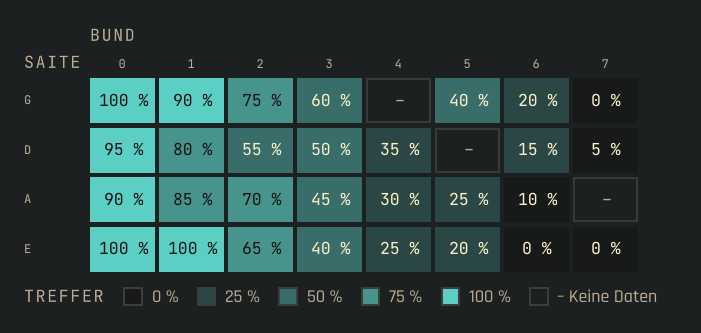
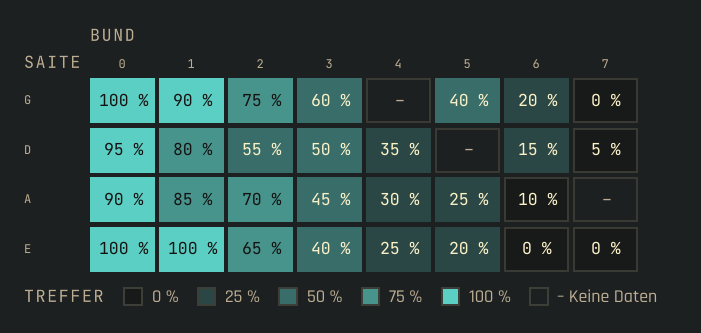
KanteHeatGrid: kein Fokus auf Lücken, Stufe 0 gerahmt (Review #106)
Wichtig aus dem Review: Mit showEmpty: false konnte der Fokus auf einer
unsichtbaren Lücke landen. Bestand nur aus Lücken, war das Raster eine
Tab-Station ohne Rahmen; setzte die App currentColumn auf eine Lücke, nahm
Tab genau diese. Jetzt ist ein Raster nur aus Lücken keine Tab-Station
(hasFocusable), focusCurrent und die Tasten am Scope rücken die aktuelle
Zelle vorher auf eine gezeichnete, moveTo geht nie auf eine Lücke. Tests
test_allGapsTakeNoTab und test_currentOnAGapFromOutside (scheiterten vorher).

Kleinigkeiten:
- Stufe 0 hat einen feinen Rahmen in der Regelfarbe und bleibt so von Grund
  und Lücke zu unterscheiden; eine Zelle mit label "" nennt Screenreadern
  ihren Wert (Wort der Stufe aus legendLabels, sonst die Zahl).
- Alle Werte gleich (automatische Skala): Stufe 0 und eine Legendenstufe
  statt Stufe 4 und fünfmal derselbe Wert.
- Legende: der Eintrag für Lücken ist ein leerer Schlüssel ohne Rahmen wie
  die Lücke; KanteLegend kennt dafür frame: false (sonst unverändert).
- CHANGELOG, #changes, README: „gebaut für“ Kontra und Mitori statt Präsens.
- Galerie: versehentlich mitgeänderte Breiten anderer Bauteile (380 → 320)
  zurückgenommen.

Tests test_levelZeroApartFromAGap, test_flatScale, test_discreteLevels
(Name mit Wert) scheiterten vorher. Screenshots neu.

diff --git a/qml/Kante/KanteHeatGrid.qml b/qml/Kante/KanteHeatGrid.qml
@@ -31,7 +31,8 @@ import "."
  *   formatter      function (value) -> string; default rounds to one decimal and adds `unit`
  *   showEmpty      a cell without data is drawn (ground, rule frame, `emptyText`) and takes
  *                  the focus (default true); false leaves a blank gap that the keys skip
- *                  ("no such combination")
+ *                  ("no such combination"); then a grid of gaps only is no Tab stop, and a
+ *                  current cell set onto a gap moves onto a drawn one before it takes the focus
  *   legend         the scale below the grid (default true), a KanteLegend: a key per level of
  *                  `legendLevels` (default 0..4) with the value it stands for
  *                  (`legendLabels[level]` overrides it), `legendTitle` before them and
@@ -53,8 +54,10 @@ import "."
  *   Irimi-…  [ ]     [4]       (blank: no data with showEmpty false)
  *
  * Level of a value: round((value - min) / (max - min) × 4), 0 to 4 as
- * KanteStyle.levelColor(level, 4). Level 0 is the sunken ground; a cell without data is the
- * page ground with a rule frame and `emptyText`. The number takes the ink that reads best on
+ * KanteStyle.levelColor(level, 4); all values alike on the scale are level 0. Level 0 is the
+ * sunken ground with a rule frame (apart from the page ground and a gap); a cell without data
+ * is the page ground with a rule frame and `emptyText`. A cell with label "" still says its value
+ * (the word of its level in `legendLabels`, else the number) to screen readers. The number takes the ink that reads best on
  * its fill (inkOf); where none reaches 4.5:1 (the middle of the scale), it sits on a small
  * plate of the ground. The focus ring is two lines: the focus colour outside the cell, against
  * the ground, and the ink of the fill inside its edge, so it shows on every level, the full
@@ -146,6 +149,21 @@ FocusScope {
         return false
     }
 
+    /** Some cell can take the focus (with showEmpty false, not every cell is a gap). */
+    readonly property bool hasFocusable: rowCount > 0 && columnCount > 0 && (showEmpty || hasData)
+    readonly property bool hasData: {
+        for (let r = 0; r < rowCount; r++) {
+            for (let c = 0; c < columnCount; c++) {
+                if (!isEmpty(r, c)) {
+                    return true
+                }
+            }
+        }
+        return false
+    }
+    /** All values alike on the scale: one level (0). */
+    readonly property bool flat: scaleMax - scaleMin <= 0
+
     /** Contrast the number keeps on its cell (WCAG AA for small text). */
     readonly property real minContrast: 4.5
     readonly property font labelFont: KanteStyle.monoFont(KanteStyle.labelFont().pointSize * 0.85, false)
@@ -204,12 +222,16 @@ FocusScope {
     /** The legend's entries as KanteLegend takes them ({color, text}). */
     readonly property var legendModel: {
         const out = []
-        for (let i = 0; i < legendLevels.length; i++) {
-            const k = Math.max(0, Math.min(4, legendLevels[i]))
+        // A flat scale (all values alike) has one level, 0.
+        const levels = flat ? [0] : legendLevels
+        for (let i = 0; i < levels.length; i++) {
+            const k = Math.max(0, Math.min(4, levels[i]))
             out.push({ color: KanteStyle.levelColor(k, 4), text: legendText(k) })
         }
+        // No data: a framed key like the framed cell, or a blank one like the gap.
         if (hasEmpty && noDataText !== "") {
-            out.push({ color: "transparent", text: showEmpty ? emptyText + " " + noDataText : noDataText })
+            out.push(showEmpty ? { color: "transparent", text: emptyText + " " + noDataText, frame: true }
+                               : { color: "transparent", text: noDataText, frame: false })
         }
         return out
     }
@@ -270,7 +292,7 @@ FocusScope {
         }
         const span = scaleMax - scaleMin
         if (span <= 0) {
-            return v >= scaleMax ? 4 : 0
+            return 0
         }
         return Math.max(0, Math.min(4, Math.round((v - scaleMin) / span * 4)))
     }
@@ -295,7 +317,13 @@ FocusScope {
         }
         // "G, 3: 80 %"; without a name the part is left out: "G: 80 %", "80 %".
         const where = [rowName(r), columnName(c)].filter(n => n !== "").join(", ")
-        const what = textOf(r, c)
+        // A blank cell (label "") still says its value: the word of its level, else the number.
+        let what = textOf(r, c)
+        const v = valueOf(r, c)
+        if (what === "" && !isNaN(v)) {
+            const word = legendLabels && legendLabels[levelOf(v)]
+            what = word ? String(word) : format(v)
+        }
         if (what === "") {
             return where
         }
@@ -350,8 +378,14 @@ FocusScope {
     }
     /** Moves the focus to a cell, clamped to the grid. */
     function moveTo(r, c) {
-        currentRow = Math.max(0, Math.min(rowCount - 1, r))
-        currentColumn = Math.max(0, Math.min(columnCount - 1, c))
+        const rr = Math.max(0, Math.min(rowCount - 1, r))
+        const cc = Math.max(0, Math.min(columnCount - 1, c))
+        // A gap (showEmpty false) never takes the focus.
+        if (!focusable(rr, cc)) {
+            return
+        }
+        currentRow = rr
+        currentColumn = cc
         const cell = cellAt(currentRow, currentColumn)
         if (cell) {
             cell.forceActiveFocus(Qt.TabFocusReason)
@@ -405,13 +439,16 @@ FocusScope {
         }
     }
     function focusCurrent() {
-        const cell = cellAt(currentRow, currentColumn)
+        // The app may have set the current cell onto a gap: move it onto a drawn cell first.
+        clampCurrent()
+        const cell = focusable(currentRow, currentColumn) ? cellAt(currentRow, currentColumn) : null
         if (activeFocus && cell && !cell.activeFocus) {
             cell.forceActiveFocus(Qt.TabFocusReason)
         }
     }
     Keys.onPressed: function (event) {
-        const cell = cellAt(currentRow, currentColumn)
+        clampCurrent()
+        const cell = focusable(currentRow, currentColumn) ? cellAt(currentRow, currentColumn) : null
         if (!interactive || !cell || cell.activeFocus) {
             return
         }
@@ -447,7 +484,8 @@ FocusScope {
     implicitHeight: body.implicitHeight
 
     // A focus scope in the Tab chain: Tab enters at the current cell, the next Tab leaves.
-    activeFocusOnTab: interactive
+    // No Tab stop when every cell is a gap.
+    activeFocusOnTab: interactive && hasFocusable
 
     Accessible.role: Accessible.Table
     Accessible.name: accessibleName
@@ -673,7 +711,8 @@ FocusScope {
                                                 objectName: "kanteHeatFill"
                                                 anchors.fill: parent
                                                 color: cell.level < 0 ? "transparent" : KanteStyle.levelColor(cell.level, 4)
-                                                border.width: cell.level < 0 ? KanteStyle.borderWidth : 0
+                                                // No data and level 0 framed: level 0 stays apart from the ground and a gap.
+                                                border.width: cell.level <= 0 ? KanteStyle.borderWidth : 0
                                                 border.color: KanteStyle.ruleColor
                                             }
                                             // The number in its best ink; where no ink reaches 4.5:1 on the

diff --git a/docs/index.html b/docs/index.html
@@ -138,19 +138,19 @@
         <p class="release-lead" lang="de">Ein Wärmeraster mit Beschriftung: Zeilen, Spalten, eine Zahl in jeder Zelle und eine Legende, auch für breite Raster auf dem Handy.</p>
         <div class="release-group" data-kind="new"><h3><span lang="en">New</span><span lang="de">Neu</span></h3>
           <ul lang="en">
-            <li><code>KanteHeatGrid</code>: rows × columns on the heat scale, with row and column labels, the value as a number in each cell, a legend with the value of each level, a tooltip per cell and keyboard focus (arrows, Enter). Screen readers hear each cell by name. Kontra's fretboard quiz shows its hits per string and fret with it; <code>KanteHeatmap</code> stays the unlabelled grid of days.</li>
-            <li>Wide grids fit a phone: the cells scroll sideways while the row names stay, with a scroll bar, and the focused cell stays in sight. Column names can stand upright, so long names allow narrow columns; long row names are cut to a width with the full name as a tooltip. Mitori's technique map shows techniques × attacks with it.</li>
-            <li>Levels 0 to 4 as steps, with a word per level in the legend, and blank places where there is nothing to show. The focus ring stands out on every level, also on the strongest, which is filled with the focus colour.</li>
+            <li><code>KanteHeatGrid</code>: rows × columns on the heat scale, with row and column labels, the value as a number in each cell, a legend with the value of each level, a tooltip per cell and keyboard focus (arrows, Enter). Screen readers hear each cell by name. Built for Kontra's fretboard quiz (hits per string and fret); <code>KanteHeatmap</code> stays the unlabelled grid of days.</li>
+            <li>Wide grids fit a phone: the cells scroll sideways while the row names stay, with a scroll bar, and the focused cell stays in sight. Column names can stand upright, so long names allow narrow columns; long row names are cut to a width with the full name as a tooltip. Built for Mitori's technique map (techniques × attacks).</li>
+            <li>Levels 0 to 4 as steps, with a word per level in the legend, and blank places where there is nothing to show; level 0 keeps a fine frame, so it stays apart from a blank place. The focus ring stands out on every level, also on the strongest, which is filled with the focus colour.</li>
           </ul>
           <ul lang="de">
-            <li><code>KanteHeatGrid</code>: Zeilen × Spalten auf der Wärmeskala, mit Zeilen- und Spaltenbeschriftung, dem Wert als Zahl in jeder Zelle, einer Legende mit dem Wert jeder Stufe, einem Tooltip je Zelle und Tastaturfokus (Pfeile, Enter). Screenreader lesen jede Zelle mit Namen vor. Kontras Griffbrett-Quiz zeigt damit seine Treffer je Saite und Bund; <code>KanteHeatmap</code> bleibt das unbeschriftete Raster der Tage.</li>
-            <li>Breite Raster passen aufs Handy: Die Zellen scrollen waagerecht, die Zeilennamen bleiben stehen, eine Scrollleiste zeigt die Stelle, und die Zelle mit dem Fokus bleibt im Blick. Spaltennamen können hochkant stehen, so erlauben lange Namen schmale Spalten; lange Zeilennamen werden auf eine Breite gekürzt, der ganze Name steht im Tooltip. Mitoris Technik-Landkarte zeigt damit Techniken × Angriffe.</li>
-            <li>Stufen 0 bis 4 als Schritte, mit einem Wort je Stufe in der Legende, und leere Plätze, wo es nichts zu zeigen gibt. Der Fokusrahmen ist auf jeder Stufe zu sehen, auch auf der stärksten, die in der Fokusfarbe gefüllt ist.</li>
+            <li><code>KanteHeatGrid</code>: Zeilen × Spalten auf der Wärmeskala, mit Zeilen- und Spaltenbeschriftung, dem Wert als Zahl in jeder Zelle, einer Legende mit dem Wert jeder Stufe, einem Tooltip je Zelle und Tastaturfokus (Pfeile, Enter). Screenreader lesen jede Zelle mit Namen vor. Gebaut für Kontras Griffbrett-Quiz (Treffer je Saite und Bund); <code>KanteHeatmap</code> bleibt das unbeschriftete Raster der Tage.</li>
+            <li>Breite Raster passen aufs Handy: Die Zellen scrollen waagerecht, die Zeilennamen bleiben stehen, eine Scrollleiste zeigt die Stelle, und die Zelle mit dem Fokus bleibt im Blick. Spaltennamen können hochkant stehen, so erlauben lange Namen schmale Spalten; lange Zeilennamen werden auf eine Breite gekürzt, der ganze Name steht im Tooltip. Gebaut für Mitoris Technik-Landkarte (Techniken × Angriffe).</li>
+            <li>Stufen 0 bis 4 als Schritte, mit einem Wort je Stufe in der Legende, und leere Plätze, wo es nichts zu zeigen gibt; Stufe 0 behält einen feinen Rahmen und bleibt so von einem leeren Platz zu unterscheiden. Der Fokusrahmen ist auf jeder Stufe zu sehen, auch auf der stärksten, die in der Fokusfarbe gefüllt ist.</li>
           </ul>
         </div>
         <div class="release-shots">
           <figure><img src="shots/release-1.63-heatgrid.png" alt="A heat grid in dark Kante: rows G, D, A, E under the title Saite, columns 0 to 7 under Bund, each cell a cyan shade with its percentage written in it, empty cells framed with a dash; below the legend Treffer from 0 % to 100 % and Keine Daten" loading="lazy"><figcaption><span lang="en">Hits per string and fret, a number in every cell, the legend below</span><span lang="de">Treffer je Saite und Bund, eine Zahl in jeder Zelle, darunter die Legende</span></figcaption></figure>
-          <figure><img src="shots/release-1.63-technique-map.png" alt="A narrow heat grid in dark Kante: techniques Ikkyo to Kote-gaeshi down the side, attack names standing upright above the columns, cells with levels 1 to 4 in cyan shades and blank places between them, a scroll bar under the cells, one cell framed by the focus ring; below the legend 1 gesehen to 4 prüfungsreif and keine Kombination" loading="lazy"><figcaption><span lang="en">Techniques by attack on a phone: upright names, blank places, a scroll bar</span><span lang="de">Techniken je Angriff auf dem Handy: hochkante Namen, leere Plätze, eine Scrollleiste</span></figcaption></figure>
+          <figure><img src="shots/release-1.63-technique-map.png" alt="A narrow heat grid in dark Kante: techniques Ikkyo to Kote-gaeshi down the side, attack names standing upright above the columns, cells with levels 1 to 4 in cyan shades, level 0 as a framed dark cell and blank places between them, a scroll bar under the cells, one cell framed by the focus ring; below the legend 1 gesehen to 4 prüfungsreif and keine Kombination" loading="lazy"><figcaption><span lang="en">Techniques by attack on a phone: upright names, blank places, a scroll bar</span><span lang="de">Techniken je Angriff auf dem Handy: hochkante Namen, leere Plätze, eine Scrollleiste</span></figcaption></figure>
         </div>
         <a class="release-notes" href="https://github.com/shrippen/Kante/blob/main/README.md#added-in-kante-163"><span lang="en">All changes in 1.63 →</span><span lang="de">Alle Änderungen in 1.63 →</span></a>
       </div>

diff --git a/qml/demo/Gallery.qml b/qml/demo/Gallery.qml
@@ -450,7 +450,7 @@ Rectangle {
                 RowLayout {
                     spacing: KanteStyle.unit(24)
                     ColumnLayout {
-                        Layout.preferredWidth: KanteStyle.unit(320)
+                        Layout.preferredWidth: KanteStyle.unit(380)
                         spacing: 0
                         KanteListRow { Layout.fillWidth: true; leadingText: "09:15"; leadingWidth: KanteStyle.unit(44); text: "Rohschnitt"; subtitle: "Kader · Schnitt"; meta: "02:14"; count: "3"; selected: true; KanteSwatch { size: KanteSwatch.Size.Small } }
                         KanteListRow { Layout.fillWidth: true; leadingText: "11:30"; leadingWidth: KanteStyle.unit(44); text: "Farbkorrektur"; subtitle: "Andon · Pflege"; meta: "01:05"; count: "12"; KanteSwatch { size: KanteSwatch.Size.Small; swatchColor: KanteStyle.tagColor } }
@@ -503,7 +503,7 @@ Rectangle {
                         hoverIndex: 1; hoverPart: 1
                     }
                     ColumnLayout {
-                        Layout.preferredWidth: KanteStyle.unit(320)
+                        Layout.preferredWidth: KanteStyle.unit(380)
                         spacing: 0
                         KanteListRow {
                             Layout.fillWidth: true; text: "Import"; subtitle: "3 Fehler"; count: "3"
@@ -664,10 +664,10 @@ Rectangle {
                     KanteTunerGauge { Layout.preferredWidth: KanteStyle.unit(270); noteName: "A"; octave: 1; cents: 2; active: true }
                     ColumnLayout {
                         spacing: KanteStyle.unit(14)
-                        KanteLevelMeter { Layout.preferredWidth: KanteStyle.unit(320); peakDb: -14; rmsDb: -22 }
-                        KanteLevelMeter { Layout.preferredWidth: KanteStyle.unit(320); peakDb: -0.4; rmsDb: -5; clipped: true }
+                        KanteLevelMeter { Layout.preferredWidth: KanteStyle.unit(380); peakDb: -14; rmsDb: -22 }
+                        KanteLevelMeter { Layout.preferredWidth: KanteStyle.unit(380); peakDb: -0.4; rmsDb: -5; clipped: true }
                         KanteTimingHistogram {
-                            Layout.preferredWidth: KanteStyle.unit(320); Layout.preferredHeight: KanteStyle.unit(170)
+                            Layout.preferredWidth: KanteStyle.unit(380); Layout.preferredHeight: KanteStyle.unit(170)
                             counts: [0, 1, 3, 6, 11, 15, 9, 5, 2, 1]; firstBinMs: -50; binMs: 10; meanMs: 4.2
                         }
                     }
@@ -1095,7 +1095,7 @@ Rectangle {
                             KanteLevelDots { value: ratingPicker.value; names: ratingPicker.names }
                             KanteLevelPicker {
                                 id: ratingPicker
-                                Layout.preferredWidth: KanteStyle.unit(320)
+                                Layout.preferredWidth: KanteStyle.unit(380)
                                 value: 3
                                 names: ["offen", "gesehen", "mit Hilfe", "sicher", "prüfungsreif"]
                                 onPicked: level => value = level
@@ -1105,14 +1105,14 @@ Rectangle {
                         ColumnLayout {
                             spacing: KanteStyle.unit(6)
                             KanteProgressBar {
-                                Layout.preferredWidth: KanteStyle.unit(320)
+                                Layout.preferredWidth: KanteStyle.unit(380)
                                 parts: [{ value: 0.10, color: KanteStyle.levelColor(4), text: "2 prüfungsreif" },
                                         { value: 0.25, color: KanteStyle.levelColor(3), text: "5 sicher" },
                                         { value: 0.15, color: KanteStyle.levelColor(2), text: "3 mit Hilfe" },
                                         { value: 0.20, color: KanteStyle.levelColor(1), text: "4 gesehen" }]
                             }
                             KanteLegend {
-                                Layout.preferredWidth: KanteStyle.unit(320)
+                                Layout.preferredWidth: KanteStyle.unit(380)
                                 model: [{ color: KanteStyle.levelColor(4), value: 2, text: "prüfungsreif" },
                                         { color: KanteStyle.levelColor(3), value: 5, text: "sicher" },
                                         { color: KanteStyle.levelColor(2), value: 3, text: "mit Hilfe" },

diff --git a/qml/tests/tst_kante163.qml b/qml/tests/tst_kante163.qml
@@ -377,7 +377,7 @@ TestCase {
         }
         const zero = g.cellAt(0, 0)
         verify(!named(zero, "kanteHeatPlate")[0].visible, "no plate for an empty label")
-        compare(zero.Accessible.name, "Ikkyo (Ude-osae), Shomen-uchi · 1")
+        compare(zero.Accessible.name, "Ikkyo (Ude-osae), Shomen-uchi · 1: 0", "a blank cell still says its value")
         // The legend: the levels asked for with their words, then the blank places.
         compare(g.legendModel.map(e => e.text), ["1 gesehen", "2 geübt", "3 sicher", "4 prüfungsreif", "keine Kombination"])
         compare(String(g.legendModel[3].color), String(KanteStyle.levelColor(4, 4)))
@@ -591,5 +591,73 @@ TestCase {
         verify(x >= 0 && x + cell.width <= view.width + 0.5, "first column in view")
         const label = named(g, "kanteHeatRowLabel")[0]
         verify(label.mapToItem(o, 0, 0).x > view.mapToItem(o, 0, 0).x, "row labels on the right")
+    }
+
+    // showEmpty false and no cell drawn: no Tab stop that shows nothing.
+    function test_allGapsTakeNoTab() {
+        const chain = createTemporaryObject(chainComponent, tc.Window.contentItem)
+        const g = chain.grid
+        g.showEmpty = false
+        g.cells = [[null, null], [null, null]]
+        waitForRendering(chain)
+        verify(!g.activeFocusOnTab, "nothing to focus")
+        chain.before.forceActiveFocus()
+        keyClick(Qt.Key_Tab)
+        verify(chain.after.activeFocus, "Tab goes past the grid")
+        // Focus forced onto the grid: still no gap takes it.
+        g.forceActiveFocus()
+        wait(50)
+        verify(named(g, "kanteHeatCell").every(c => !c.activeFocus))
+    }
+
+    // The current cell set from outside onto a gap: Tab lands on a drawn cell with its ring.
+    function test_currentOnAGapFromOutside() {
+        const chain = createTemporaryObject(chainComponent, tc.Window.contentItem)
+        const g = chain.grid
+        g.showEmpty = false
+        g.cells = [[1, null, 2, 4], [3, 4, null, 1], [1, 1, 1, 1], [1, 1, 1, 1]]
+        waitForRendering(chain)
+        g.currentRow = 0
+        g.currentColumn = 1
+        chain.before.forceActiveFocus()
+        keyClick(Qt.Key_Tab)
+        tryVerify(() => named(g, "kanteHeatCell").some(c => c.activeFocus), 1000, "a cell has the focus")
+        const cell = named(g, "kanteHeatCell").filter(c => c.activeFocus)[0]
+        verify(cell.shown, "not a gap")
+        verify(named(cell, "kanteHeatRing")[0].visible, "its ring shows")
+        verify(g.focusable(g.currentRow, g.currentColumn))
+        // moveTo onto a gap does not take the focus there either.
+        g.moveTo(1, 2)
+        verify(!g.cellAt(1, 2).activeFocus)
+        verify(g.focusable(g.currentRow, g.currentColumn))
+    }
+
+    // Level 0 stands apart from a gap: a rule frame; a gap is not framed, nor its legend key.
+    function test_levelZeroApartFromAGap() {
+        const g = makeMap().grid
+        const zero = g.cellAt(0, 0)
+        compare(zero.level, 0)
+        verify(named(zero, "kanteHeatFill")[0].border.width > 0, "level 0 framed")
+        verify(named(g.cellAt(0, 1), "kanteHeatFill")[0].border.width === 0, "level 1 not")
+        const gapEntry = g.legendModel[g.legendModel.length - 1]
+        compare(gapEntry.text, "keine Kombination")
+        compare(gapEntry.frame, false)
+        const keys = named(g, "kanteHeatLegendKeys")[0]
+        const key = findAll(keys, c => c.objectName === "kanteLegendKey" && c.parent.Accessible.name === "keine Kombination")[0]
+        verify(key)
+        compare(key.border.width, 0, "a blank key like the blank place")
+        g.showEmpty = true
+        compare(g.legendModel[g.legendModel.length - 1].frame, true)
+    }
+
+    // All values alike on a scale from the cells: level 0, one legend key.
+    function test_flatScale() {
+        const g = make()
+        g.cells = [[0, 0, 0], [0, 0, 0]]
+        compare(g.cellAt(0, 0).level, 0)
+        compare(g.legendModel.map(e => e.text), ["0 %", "– Keine Daten"])
+        g.cells = [[5, 5], [5, 5]]
+        compare(g.cellAt(1, 1).level, 0)
+        compare(g.legendModel.map(e => e.text), ["5 %", "– Keine Daten"])
     }
 }

diff --git a/qml/Kante/KanteLegend.qml b/qml/Kante/KanteLegend.qml
@@ -7,7 +7,8 @@ import "."
  * the shares by level in a KanteProgressBar or the steps of a KanteHeatmap.
  *
  *   model   [{color, text}, …], drawn in this order; an item may carry `value` ("3"), shown
- *           before the word
+ *           before the word; `frame: false` (1.63) draws its key without the frame, a blank key
+ *           for a blank place (as the gaps of a KanteHeatGrid)
  *   keySize the key, KanteStyle.swatchSize; square in the Kante style, round elsewhere (as
  *           markerRadius)
  * A word longer than the legend is wide wraps under its key.
@@ -33,12 +34,13 @@ Flow {
             Accessible.name: words
 
             Rectangle {
+                objectName: "kanteLegendKey"
                 anchors.verticalCenter: parent.verticalCenter
                 width: legend.keySize
                 height: legend.keySize
                 radius: KanteStyle.markerRadius > 0 ? width / 2 : 0
                 color: item.modelData.color || KanteStyle.sunkenColor
-                border.width: KanteStyle.borderWidth
+                border.width: item.modelData.frame === false ? 0 : KanteStyle.borderWidth
                 border.color: KanteStyle.frameColor
             }
             Text {

diff --git a/README.md b/README.md
@@ -790,14 +790,15 @@ The keyboard view for Kontra's bass over MIDI (persona P5 Aylin, a keyboarder wh
 
 ### Added in Kante 1.63
 
-A heat grid with labels, for two apps: Kontra's fretboard quiz (hits per string and fret, a percentage in each cell) and Mitori's technique map (a grid per group, techniques × attacks, each place the best level 0–4 of its techniques, blank where a technique does not answer an attack; 20 and more attacks on a phone).
+A heat grid with labels, built for two apps: Kontra's fretboard quiz (hits per string and fret, a percentage in each cell) and Mitori's technique map (a grid per group, techniques × attacks, each place the best level 0–4 of its techniques, blank where a technique does not answer an attack; 20 and more attacks on a phone).
 
 | Element | Web | QML |
 |---|---|---|
-| Heat grid with labels | – | `KanteHeatGrid`: `rowLabels` (top to bottom), `columnLabels` ("" leaves one out), `rowTitle` and `columnTitle` (e.g. "Saite", "Bund"); `cells` one list per row, an entry a number, `null` (no data) or `{value, label, tip, accessibleName}`. The value stands in the cell as a number (`showValues`, `formatter` or `unit`; `label` replaces it, `""` leaves the cell blank), so the colour is never the only sign; the number takes the ink that reads best on its level and, where none reaches 4.5:1, sits on a small plate of the ground. Levels 0 to 4 as `KanteStyle.levelColor(level, 4)`, the scale of `KanteHeatmap`, between `minValue` and `maxValue` (NaN: from the cells); with `minValue: 0`, `maxValue: 4` and whole values each value is its level. No data is the ground with a rule frame and `emptyText` ("–"); `showEmpty: false` leaves a blank gap instead that takes no focus, no tap and no screen reader's attention, and the keys skip it. `legend` below the grid, a `KanteLegend` that wraps when narrow: a key per level of `legendLevels` (default `[0, 1, 2, 3, 4]`, e.g. `[1, 2, 3, 4]` without level 0) with its value or `legendLabels[level]` (by level, so `legendLabels[0]` names level 0), `legendTitle` before them, `noDataText` after them when a cell has no data (`legendModel` holds the entries). A tooltip per cell on hover and on focus (`tip`, default "<row>, <column>: <text>"), the same text as the cell's accessible name unless `accessibleName` says otherwise. Row and column come from `rowNames` / `columnNames` (e.g. "Bund 1" where the label is ""), else from the labels; with neither the part is left out, never replaced by an index. `interactive` (default true): one Tab stop, arrows move, Home / End to the row's ends, Ctrl+Home / End to the first and last cell, Enter / Space or a click fire `activated(row, column)`; `currentRow`, `currentColumn`; right to left Left goes on. When the cells change, the current cell moves onto a cell that is there, so the focus stays on a cell. The focus ring is two lines, the focus colour outside the cell and the fill's ink (ground or strong text) inside its edge, so it stands out 3:1 on every level, also on level 4, which is filled with the focus colour. `KanteHeatmap` stays the unlabelled grid of days. The web has no labelled heat grid yet (`.heat`, `.heat-legend`) |
+| Heat grid with labels | – | `KanteHeatGrid`: `rowLabels` (top to bottom), `columnLabels` ("" leaves one out), `rowTitle` and `columnTitle` (e.g. "Saite", "Bund"); `cells` one list per row, an entry a number, `null` (no data) or `{value, label, tip, accessibleName}`. The value stands in the cell as a number (`showValues`, `formatter` or `unit`; `label` replaces it, `""` leaves the cell blank; screen readers still hear the value, as the word of its level in `legendLabels` or the number), so the colour is never the only sign; the number takes the ink that reads best on its level and, where none reaches 4.5:1, sits on a small plate of the ground. Levels 0 to 4 as `KanteStyle.levelColor(level, 4)`, the scale of `KanteHeatmap`, between `minValue` and `maxValue` (NaN: from the cells); with `minValue: 0`, `maxValue: 4` and whole values each value is its level; all values alike on the scale are level 0, and the legend then shows that one level. Level 0 (the sunken ground) has a fine rule frame, so it stays apart from the page ground and from a gap. No data is the ground with a rule frame and `emptyText` ("–"); `showEmpty: false` leaves a blank gap instead that takes no focus, no tap and no screen reader's attention, and the keys skip it; a grid of gaps only is no Tab stop, and a current cell the app sets onto a gap moves onto a drawn one before it takes the focus. `legend` below the grid, a `KanteLegend` that wraps when narrow: a key per level of `legendLevels` (default `[0, 1, 2, 3, 4]`, e.g. `[1, 2, 3, 4]` without level 0) with its value or `legendLabels[level]` (by level, so `legendLabels[0]` names level 0), `legendTitle` before them, `noDataText` after them when a cell has no data, with a framed key like the framed cell, or with `showEmpty: false` a blank key like the gap (`legendModel` holds the entries). A tooltip per cell on hover and on focus (`tip`, default "<row>, <column>: <text>"), the same text as the cell's accessible name unless `accessibleName` says otherwise. Row and column come from `rowNames` / `columnNames` (e.g. "Bund 1" where the label is ""), else from the labels; with neither the part is left out, never replaced by an index. `interactive` (default true): one Tab stop, arrows move, Home / End to the row's ends, Ctrl+Home / End to the first and last cell, Enter / Space or a click fire `activated(row, column)`; `currentRow`, `currentColumn`; right to left Left goes on. When the cells change, the current cell moves onto a cell that is there, so the focus stays on a cell. The focus ring is two lines, the focus colour outside the cell and the fill's ink (ground or strong text) inside its edge, so it stands out 3:1 on every level, also on level 4, which is filled with the focus colour. `KanteHeatmap` stays the unlabelled grid of days. The web has no labelled heat grid yet (`.heat`, `.heat-legend`) |
 | Wide heat grids | – | `KanteHeatGrid` on a narrow screen: `scrollable` (default true) lets the cells scroll sideways when the grid is narrower than they are, the row labels stay at the start side, a horizontal scroll bar shows (`scrolling` says when); the focused cell is scrolled into view, its ring included, and right to left the view starts at the first column on the right. `rowLabelWidth` caps the row labels (0: as wide as the longest; bind it to e.g. `width * 0.4` on a phone); longer names elide, the full name shows as a tooltip. `columnLabelsVertical` turns the column labels upright, reading upwards from one line above the cells, so long names allow narrow columns; they are as long as the longest name and never cut, unless `columnLabelMaxLength` caps them (then they elide, the full name as a tooltip). `columnTips` gives a column label a tooltip of its own (e.g. the Japanese name). `cellSize` is the smallest side of a cell (larger on a tablet) |
+| Blank legend key | – | `KanteLegend`: an item with `frame: false` draws its key without the frame, a blank key for a blank place (the gaps of a `KanteHeatGrid` with `showEmpty: false`); items without it keep their frame |
 
-Mitori's technique map with it, a grid per group:
+How Mitori's technique map can use it, a grid per group:
 
 ```qml
 KanteHeatGrid {

diff --git a/CHANGELOG.md b/CHANGELOG.md
@@ -12,9 +12,9 @@ per version. Knust and the plugin kit keep their own logs: `kimai/knust/CHANGELO
 A heat grid with labels: rows, columns, a number in every cell and a legend, also for wide grids on a phone.
 
 #### New
-- `KanteHeatGrid`: rows × columns on the heat scale, with row and column labels, the value as a number in each cell, a legend with the value of each level, a tooltip per cell and keyboard focus (arrows, Enter). Screen readers hear each cell by name. Kontra's fretboard quiz shows its hits per string and fret with it; `KanteHeatmap` stays the unlabelled grid of days.
-- Wide grids fit a phone: the cells scroll sideways while the row names stay, with a scroll bar, and the focused cell stays in sight. Column names can stand upright, so long names allow narrow columns; long row names are cut to a width with the full name as a tooltip. Mitori's technique map shows techniques × attacks with it.
-- Levels 0 to 4 as steps, with a word per level in the legend, and blank places where there is nothing to show. The focus ring stands out on every level, also on the strongest, which is filled with the focus colour.
+- `KanteHeatGrid`: rows × columns on the heat scale, with row and column labels, the value as a number in each cell, a legend with the value of each level, a tooltip per cell and keyboard focus (arrows, Enter). Screen readers hear each cell by name. Built for Kontra's fretboard quiz (hits per string and fret); `KanteHeatmap` stays the unlabelled grid of days.
+- Wide grids fit a phone: the cells scroll sideways while the row names stay, with a scroll bar, and the focused cell stays in sight. Column names can stand upright, so long names allow narrow columns; long row names are cut to a width with the full name as a tooltip. Built for Mitori's technique map (techniques × attacks).
+- Levels 0 to 4 as steps, with a word per level in the legend, and blank places where there is nothing to show; level 0 keeps a fine frame, so it stays apart from a blank place. The focus ring stands out on every level, also on the strongest, which is filled with the focus colour.
 
 ![Hits per string and fret, a number in every cell, the legend below](https://shrippen.github.io/Kante/shots/release-1.63-heatgrid.png)
 
@@ -27,9 +27,9 @@ All changes: https://github.com/shrippen/Kante/blob/main/README.md#added-in-kant
 Ein Wärmeraster mit Beschriftung: Zeilen, Spalten, eine Zahl in jeder Zelle und eine Legende, auch für breite Raster auf dem Handy.
 
 #### Neu
-- `KanteHeatGrid`: Zeilen × Spalten auf der Wärmeskala, mit Zeilen- und Spaltenbeschriftung, dem Wert als Zahl in jeder Zelle, einer Legende mit dem Wert jeder Stufe, einem Tooltip je Zelle und Tastaturfokus (Pfeile, Enter). Screenreader lesen jede Zelle mit Namen vor. Kontras Griffbrett-Quiz zeigt damit seine Treffer je Saite und Bund; `KanteHeatmap` bleibt das unbeschriftete Raster der Tage.
-- Breite Raster passen aufs Handy: Die Zellen scrollen waagerecht, die Zeilennamen bleiben stehen, eine Scrollleiste zeigt die Stelle, und die Zelle mit dem Fokus bleibt im Blick. Spaltennamen können hochkant stehen, so erlauben lange Namen schmale Spalten; lange Zeilennamen werden auf eine Breite gekürzt, der ganze Name steht im Tooltip. Mitoris Technik-Landkarte zeigt damit Techniken × Angriffe.
-- Stufen 0 bis 4 als Schritte, mit einem Wort je Stufe in der Legende, und leere Plätze, wo es nichts zu zeigen gibt. Der Fokusrahmen ist auf jeder Stufe zu sehen, auch auf der stärksten, die in der Fokusfarbe gefüllt ist.
+- `KanteHeatGrid`: Zeilen × Spalten auf der Wärmeskala, mit Zeilen- und Spaltenbeschriftung, dem Wert als Zahl in jeder Zelle, einer Legende mit dem Wert jeder Stufe, einem Tooltip je Zelle und Tastaturfokus (Pfeile, Enter). Screenreader lesen jede Zelle mit Namen vor. Gebaut für Kontras Griffbrett-Quiz (Treffer je Saite und Bund); `KanteHeatmap` bleibt das unbeschriftete Raster der Tage.
+- Breite Raster passen aufs Handy: Die Zellen scrollen waagerecht, die Zeilennamen bleiben stehen, eine Scrollleiste zeigt die Stelle, und die Zelle mit dem Fokus bleibt im Blick. Spaltennamen können hochkant stehen, so erlauben lange Namen schmale Spalten; lange Zeilennamen werden auf eine Breite gekürzt, der ganze Name steht im Tooltip. Gebaut für Mitoris Technik-Landkarte (Techniken × Angriffe).
+- Stufen 0 bis 4 als Schritte, mit einem Wort je Stufe in der Legende, und leere Plätze, wo es nichts zu zeigen gibt; Stufe 0 behält einen feinen Rahmen und bleibt so von einem leeren Platz zu unterscheiden. Der Fokusrahmen ist auf jeder Stufe zu sehen, auch auf der stärksten, die in der Fokusfarbe gefüllt ist.
 
 ![Treffer je Saite und Bund, eine Zahl in jeder Zelle, darunter die Legende](https://shrippen.github.io/Kante/shots/release-1.63-heatgrid.png)
 
